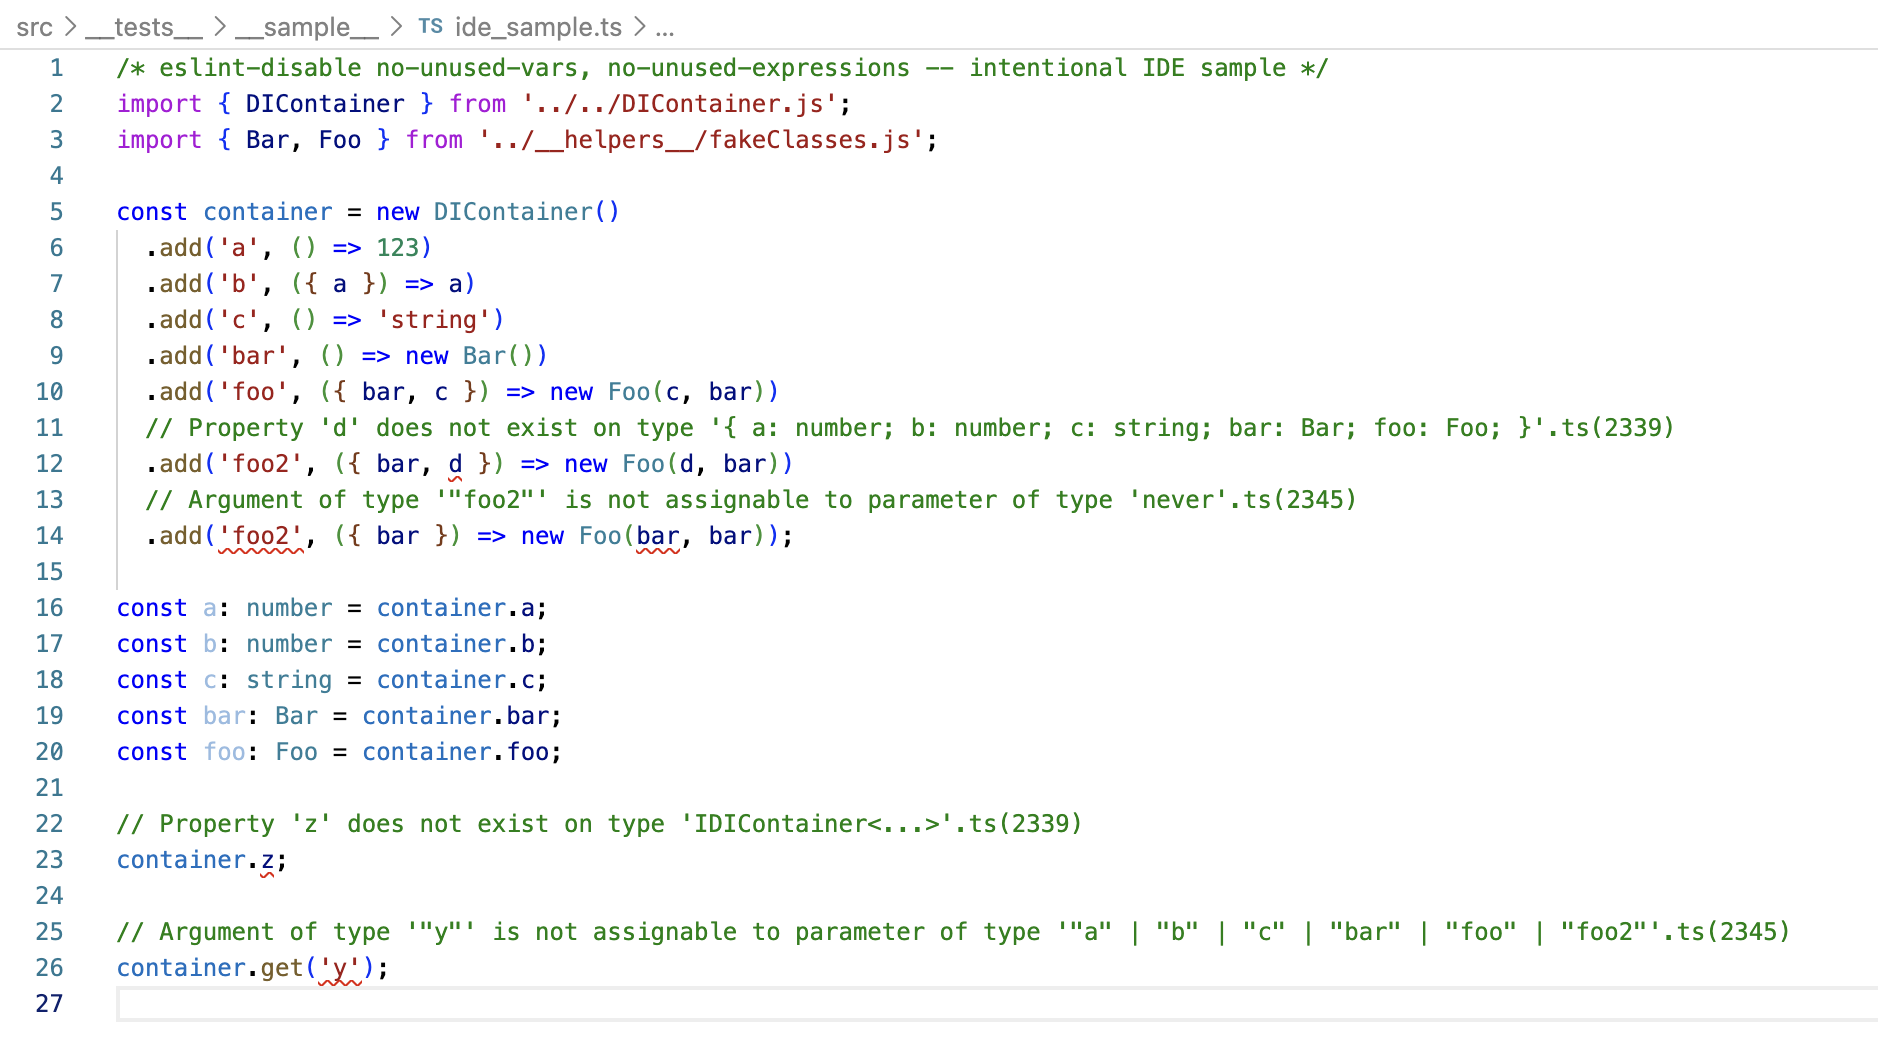
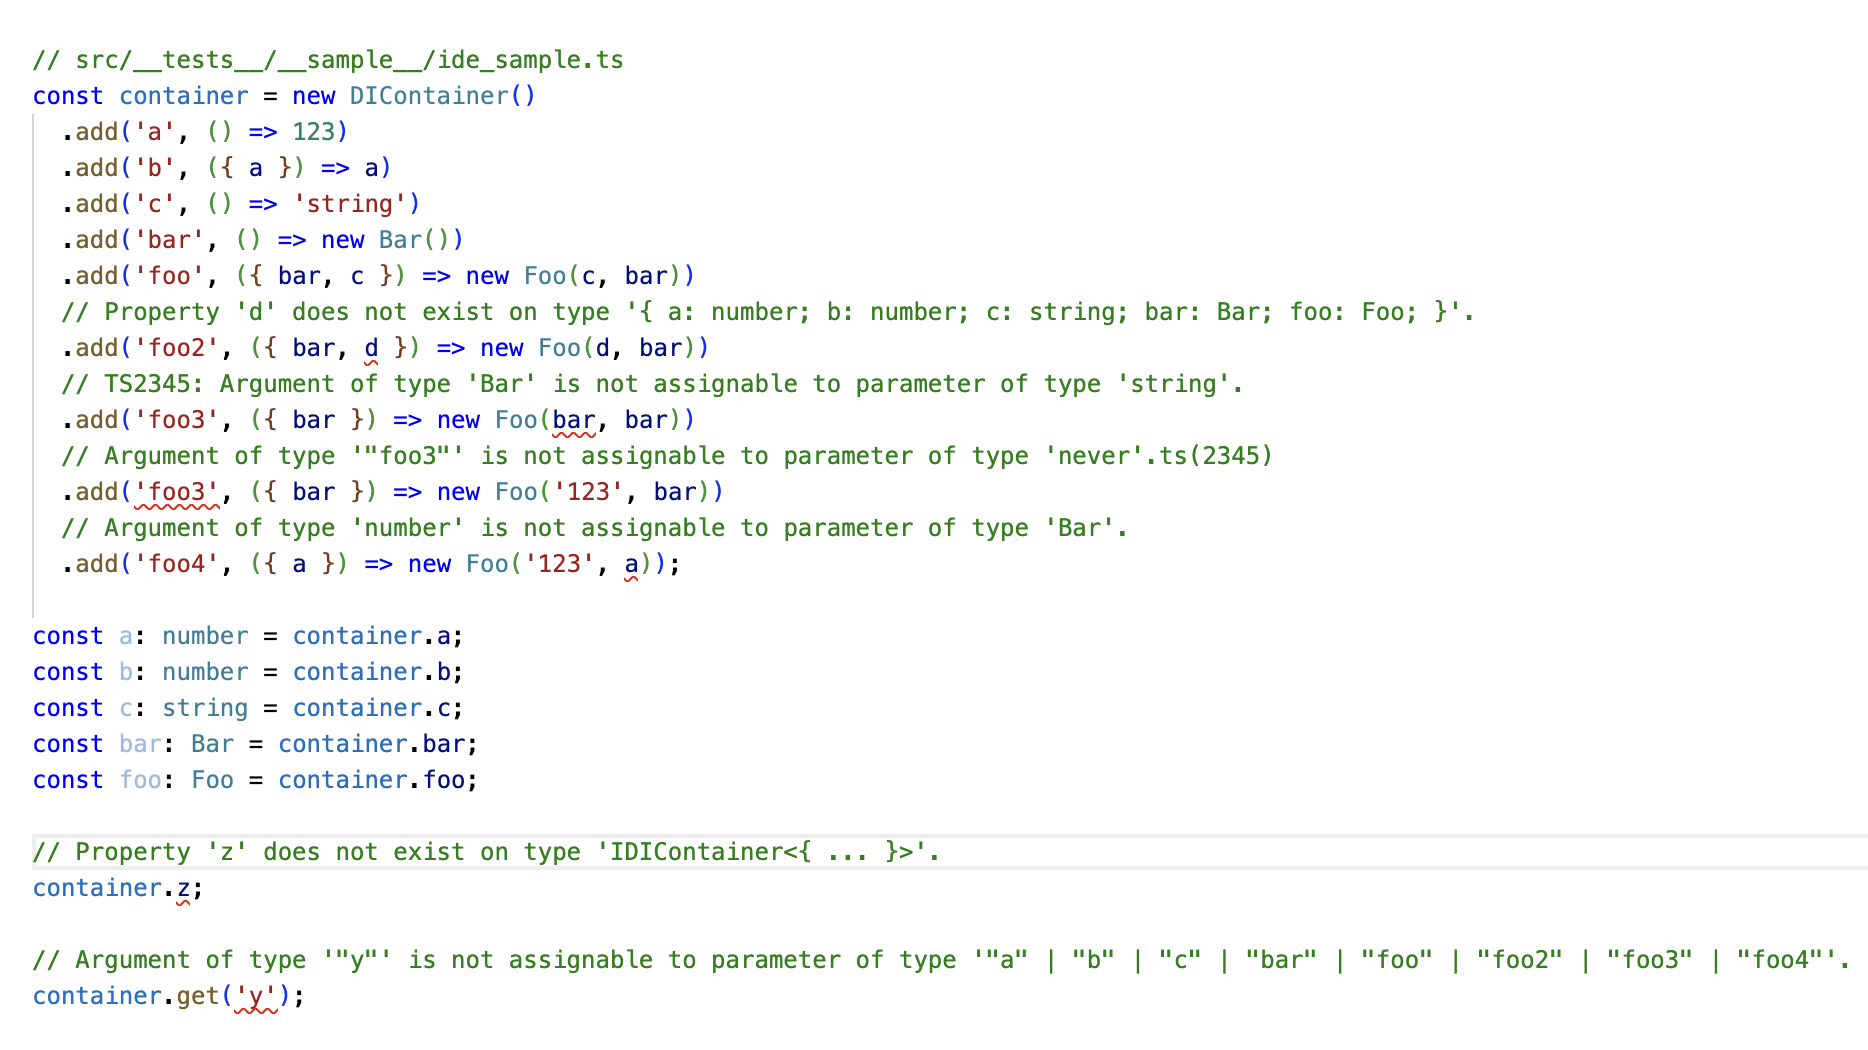
feat: updated img

diff --git a/src/__tests__/__sample__/ide_sample.ts b/src/__tests__/__sample__/ide_sample.ts
@@ -1,17 +1,43 @@
-/* eslint-disable no-unused-vars, no-unused-expressions -- intentional IDE sample */
 import { DIContainer } from '../../DIContainer.js';
-import { Bar, Foo } from '../__helpers__/fakeClasses.js';
 
+export class Bar {
+  private readonly isBar = true;
+}
+
+export class Foo {
+  public bar: Bar;
+
+  public name: string;
+
+  constructor(name: string, bar: Bar) {
+    this.name = name;
+    if (!name) {
+      throw new Error('Name is missing');
+    }
+
+    if (!bar) {
+      throw new Error('Bar is missing');
+    }
+
+    this.bar = bar;
+  }
+}
+
+// src/__tests__/__sample__/ide_sample.ts
 const container = new DIContainer()
   .add('a', () => 123)
   .add('b', ({ a }) => a)
   .add('c', () => 'string')
   .add('bar', () => new Bar())
   .add('foo', ({ bar, c }) => new Foo(c, bar))
-  // Property 'd' does not exist on type '{ a: number; b: number; c: string; bar: Bar; foo: Foo; }'.ts(2339)
+  // Property 'd' does not exist on type '{ a: number; b: number; c: string; bar: Bar; foo: Foo; }'.
   .add('foo2', ({ bar, d }) => new Foo(d, bar))
-  // Argument of type '"foo2"' is not assignable to parameter of type 'never'.ts(2345)
-  .add('foo2', ({ bar }) => new Foo(bar, bar));
+  // TS2345: Argument of type 'Bar' is not assignable to parameter of type 'string'.
+  .add('foo3', ({ bar }) => new Foo(bar, bar))
+  // Argument of type '"foo3"' is not assignable to parameter of type 'never'.ts(2345)
+  .add('foo3', ({ bar }) => new Foo('123', bar))
+  // Argument of type 'number' is not assignable to parameter of type 'Bar'.
+  .add('foo4', ({ a }) => new Foo('123', a));
 
 const a: number = container.a;
 const b: number = container.b;
@@ -19,8 +45,8 @@ const c: string = container.c;
 const bar: Bar = container.bar;
 const foo: Foo = container.foo;
 
-// Property 'z' does not exist on type 'IDIContainer<...>'.ts(2339)
+// Property 'z' does not exist on type 'IDIContainer<{ ... }>'.
 container.z;
 
-// Argument of type '"y"' is not assignable to parameter of type '"a" | "b" | "c" | "bar" | "foo" | "foo2"'.ts(2345)
+// Argument of type '"y"' is not assignable to parameter of type '"a" | "b" | "c" | "bar" | "foo" | "foo2" | "foo3" | "foo4"'.
 container.get('y');
